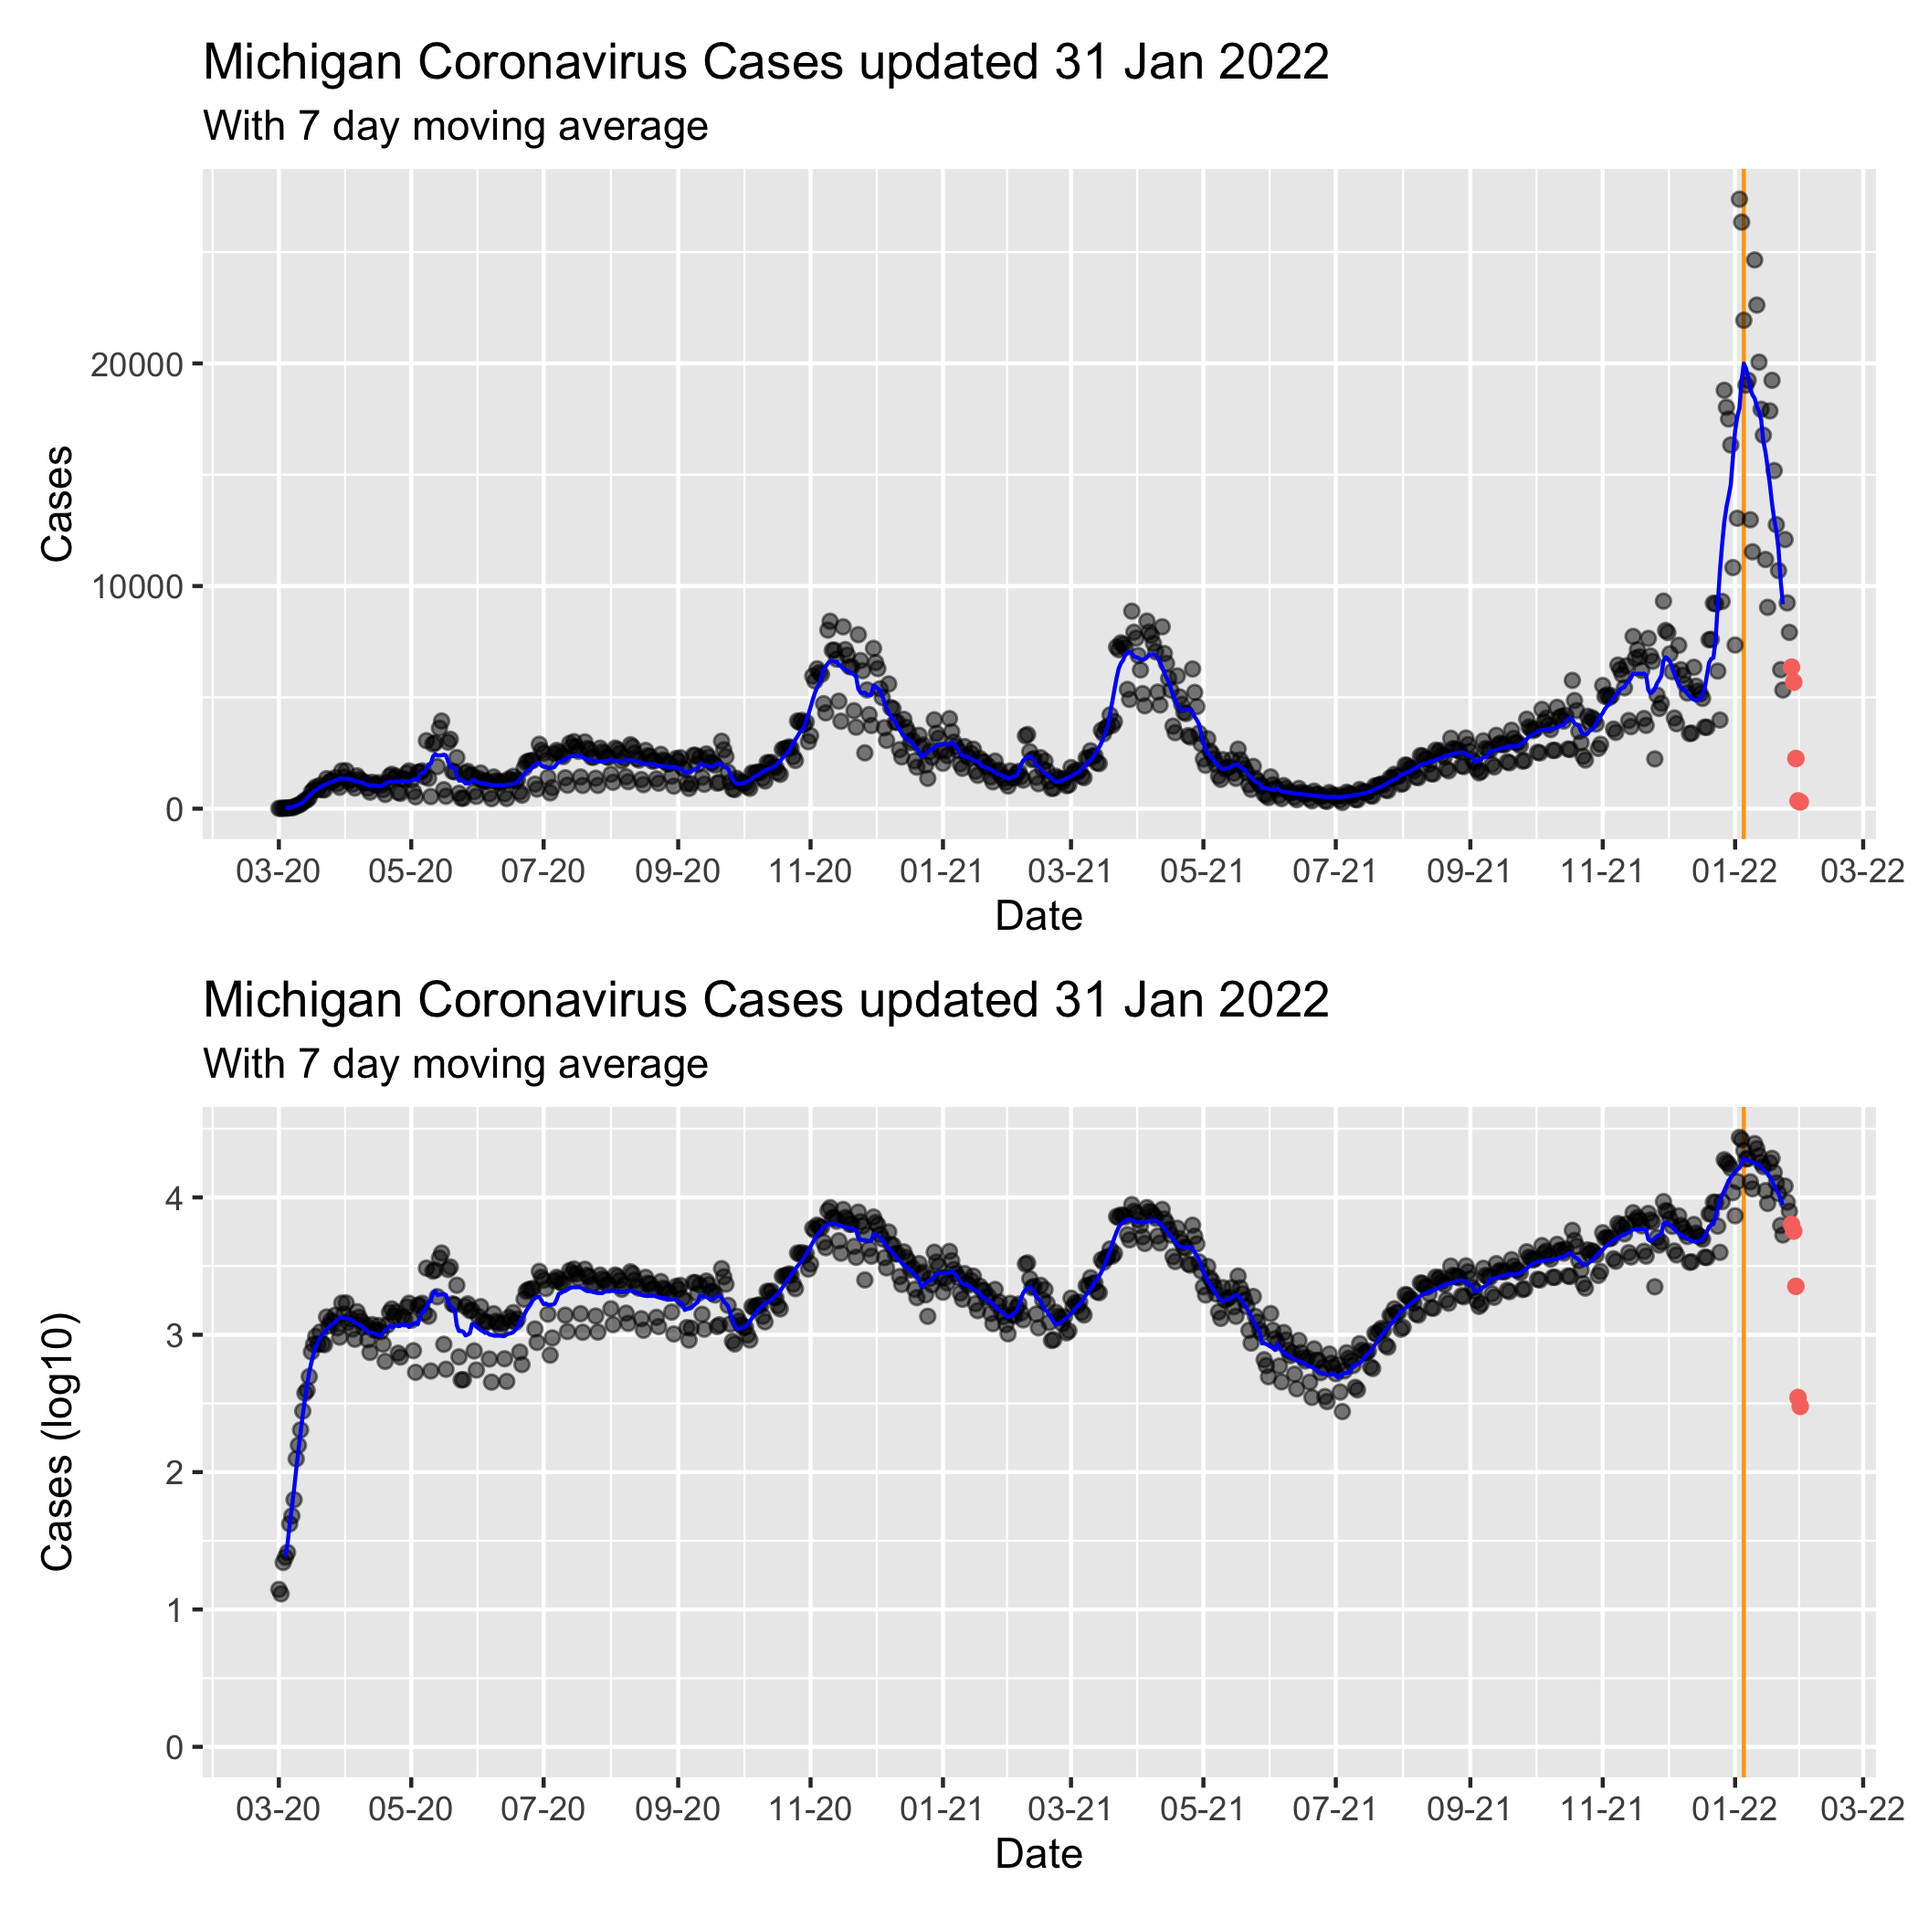
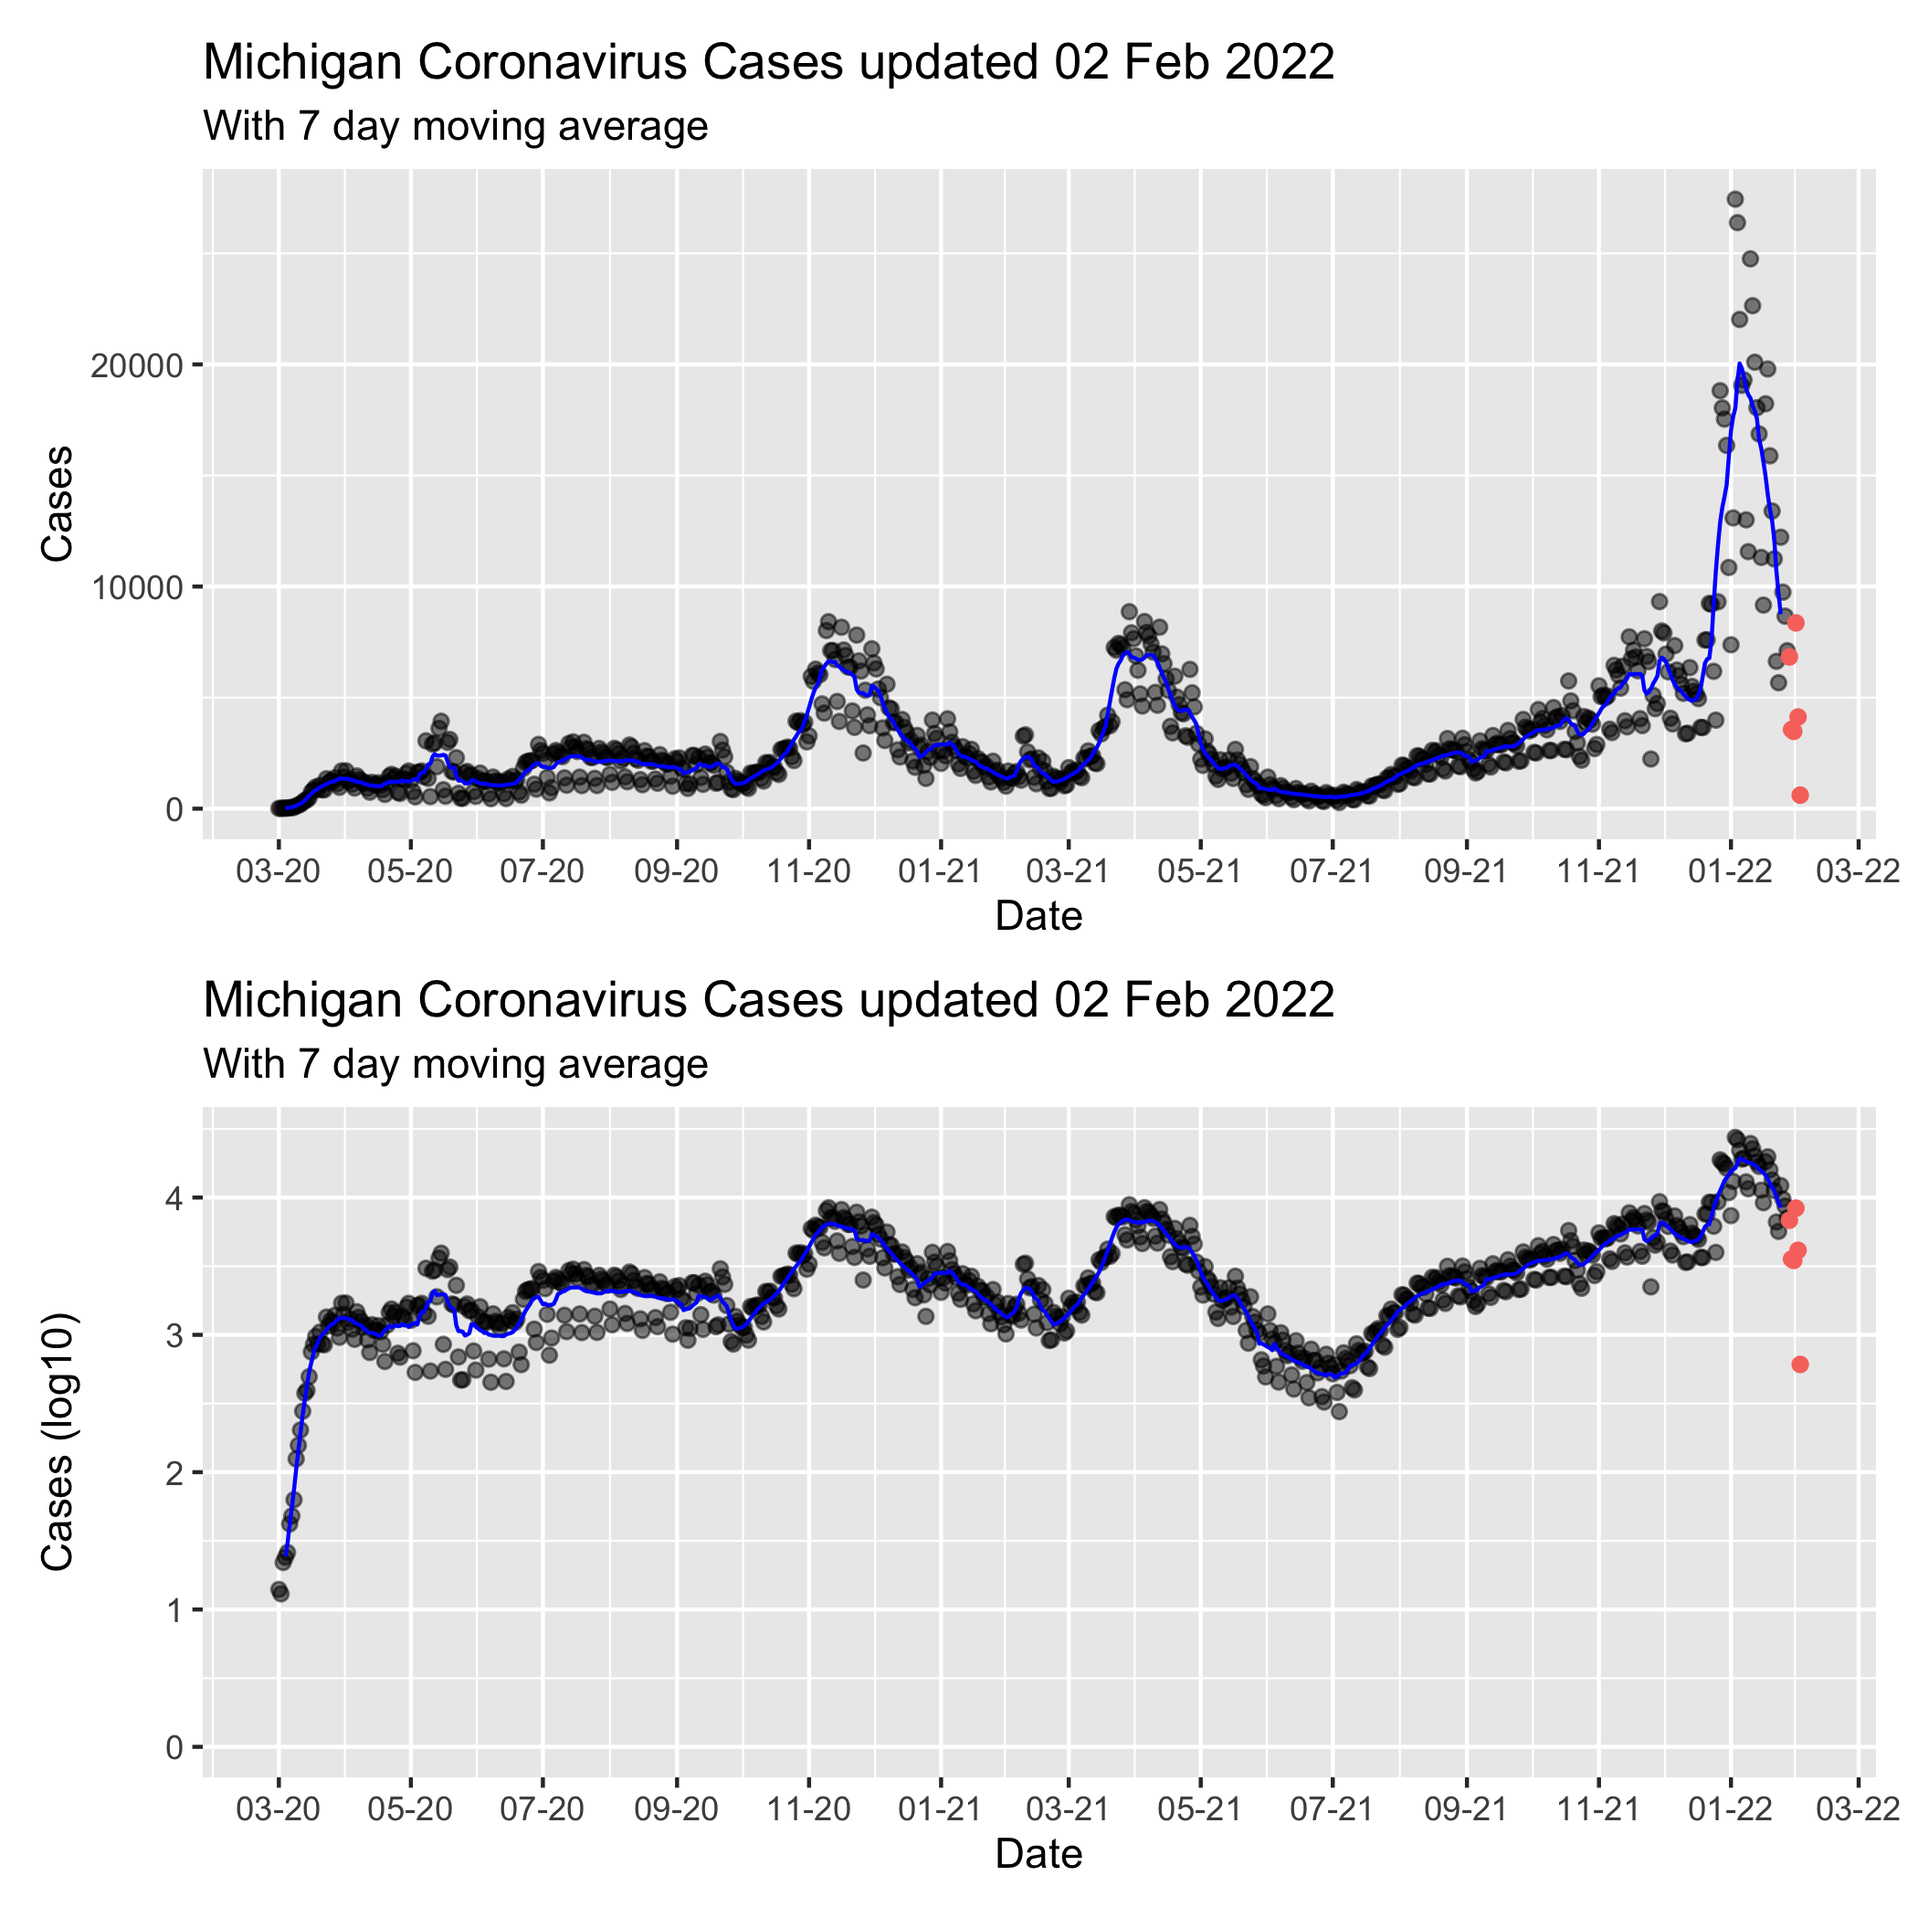
Feb-03 2022 12:01 update

diff --git a/MiCorona.md b/MiCorona.md
@@ -1,7 +1,7 @@
 Michigan COVID Data
 ================
 Adam D. DenHaan
-Feb 02, 2022
+Feb 03, 2022
 
 Get link for data:
 
@@ -47,12 +47,12 @@ mi_data.head()
     ## 3  Alcona 2020-03-04   Confirmed    0.0     0.0               0.0   
     ## 4  Alcona 2020-03-05   Confirmed    0.0     0.0               0.0   
     ## 
-    ##    Deaths.Cumulative                       Updated  
-    ## 0                0.0 2022-01-31 15:52:42.383800064  
-    ## 1                0.0 2022-01-31 15:52:42.383800064  
-    ## 2                0.0 2022-01-31 15:52:42.383800064  
-    ## 3                0.0 2022-01-31 15:52:42.383800064  
-    ## 4                0.0 2022-01-31 15:52:42.383800064
+    ##    Deaths.Cumulative                    Updated  
+    ## 0                0.0 2022-02-02 13:44:26.102400  
+    ## 1                0.0 2022-02-02 13:44:26.102400  
+    ## 2                0.0 2022-02-02 13:44:26.102400  
+    ## 3                0.0 2022-02-02 13:44:26.102400  
+    ## 4                0.0 2022-02-02 13:44:26.102400
 
 ``` python
 max_date = max(mi_data["Updated"])
@@ -121,8 +121,8 @@ viz_function <- function(df, df2, x, y, vertline = TRUE, log = FALSE) {
 ```
 
 ``` r
-viz_function(mi_cases_by_day_exclusive, mi_cases_by_day_last4, Date, Cases) /
-  viz_function(mi_cases_by_day_exclusive, mi_cases_by_day_last4, Date, Cases, log = TRUE)
+viz_function(mi_cases_by_day_exclusive, mi_cases_by_day_last4, Date, Cases, vertline = FALSE) /
+  viz_function(mi_cases_by_day_exclusive, mi_cases_by_day_last4, Date, Cases, log = TRUE, vertline = FALSE)
 ```
 
 ![](MiCorona_files/figure-gfm/viz-1.png)<!-- -->
@@ -134,8 +134,5 @@ viz_function(mi_cases_by_day_exclusive, mi_cases_by_day_last4, Date, Deaths, ver
 
 ![](MiCorona_files/figure-gfm/viz2-1.png)<!-- -->
 
-Note that the last 5 days of data have been colored red on the graph, as
-they frequently change as more information becomes available. Vertical
-orange line at 4 weeks in the past (as hospitalizations and deaths
-usually follow cases by three weeks, and the deaths graph regression
-line is behind by another week).
+Note that the last 6 days of data have been colored red on the graph, as
+they frequently change as more information becomes available.
